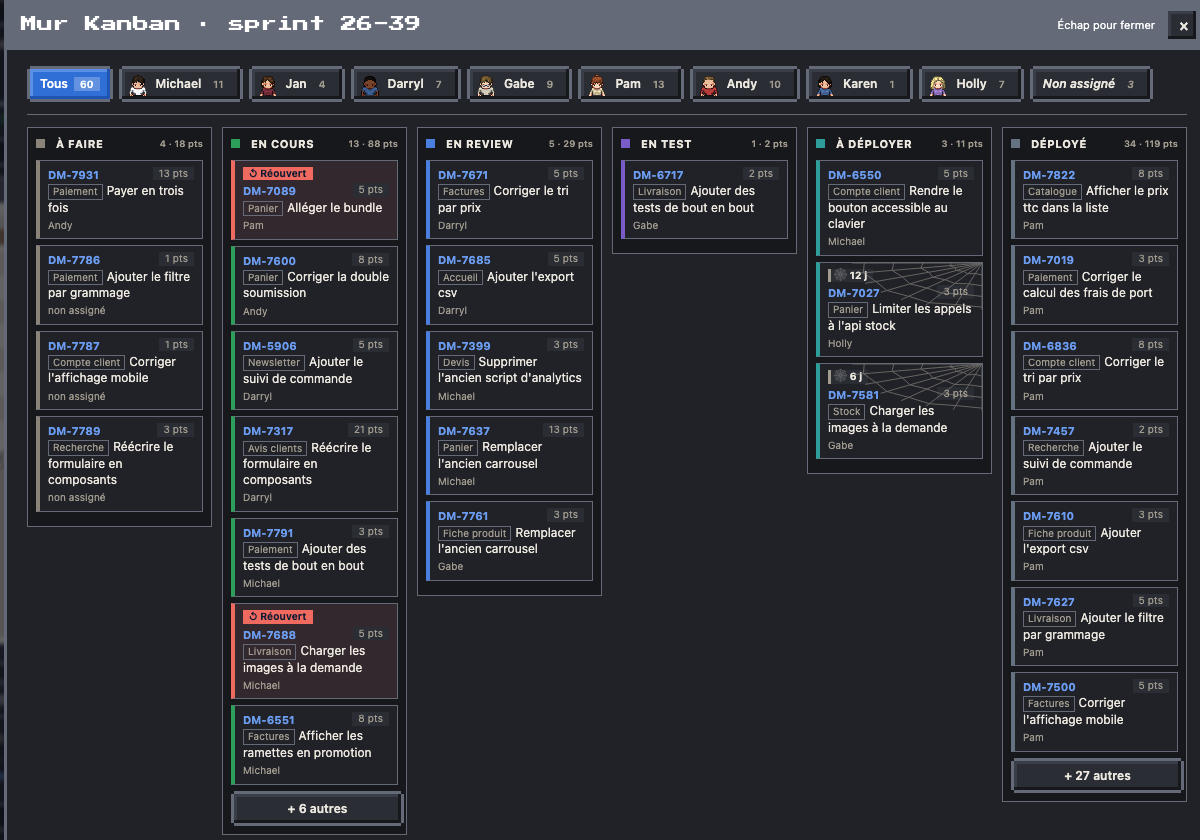
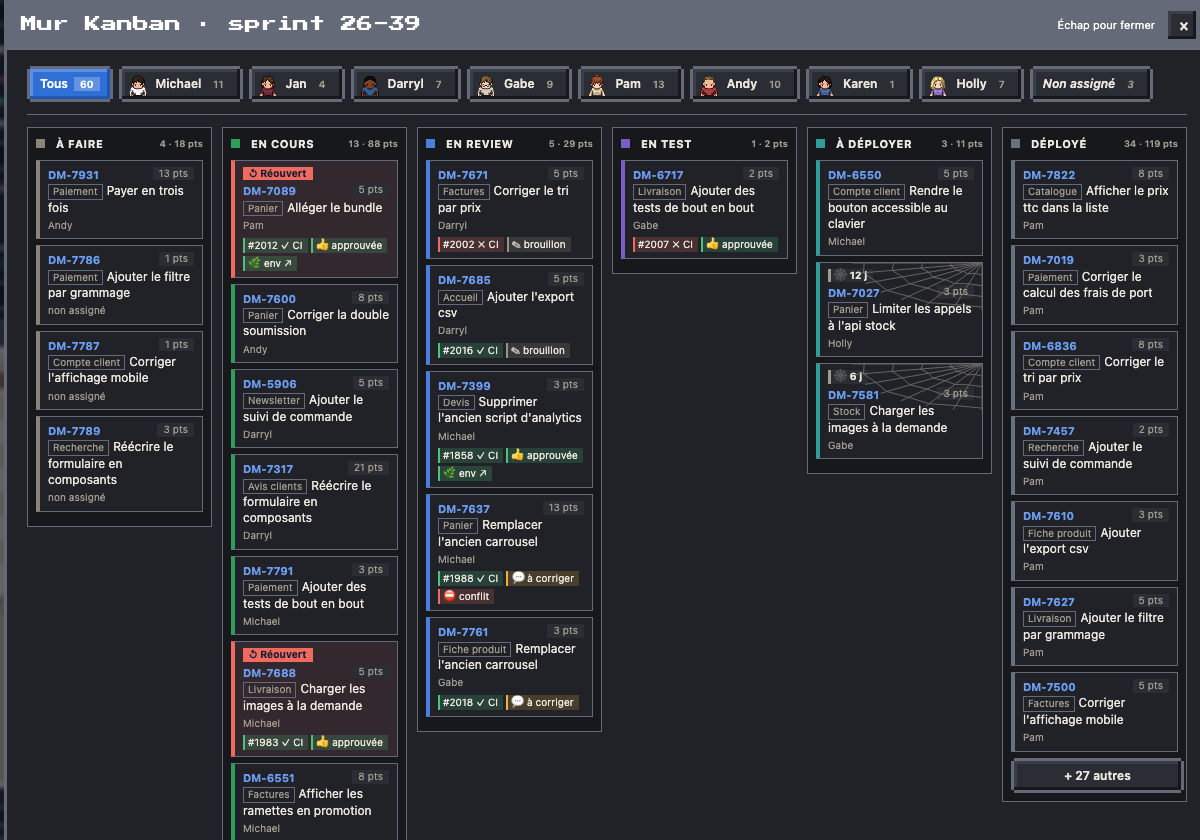
feat(kanban): l'état de la PR sous chaque carte, et le lien de son env de branche
Sous chaque carte avec une PR ouverte (la prête plutôt qu'un brouillon,
puis la plus récente) : son numéro et sa CI (✓, ✗, ⏳), brouillon ou
review (👀 à relire, 💬 à corriger, 👍 approuvée), ⛔ conflit, les envs où
tourne sa branche (🧪 DEV, 🎭 STG, ⏳ pendant le déploiement, dataset
live) et « 🌿 env ↗ », lien direct vers son env de branche. Dans le
volet, sa PR montre CI et envs dans ses marques, et l'adresse complète
de l'env de branche avec l'heure où il a été prêt.

La carte devient un cadre qui contient le lien vers la fiche, puis les
pastilles : le lien de l'env n'est jamais dans un autre lien.

Cron équipe : CI du dernier commit et labels dans la requête GraphQL des
fils (une par dépôt, rien de plus) ; sur une PR qui porte le label d'env,
l'adresse est relevée dans ses commentaires selon le motif du pack
(env.url), par un filtre jq qui ne sort que l'adresse et l'heure (le
commentaire contient souvent des mots de passe). Champs écrits seulement
quand ils sont connus : la sortie reste sous 100 Ko.

Démo : CI, branche et env de branche sur les PR. Poids : +3,4 Ko
(967 563 o publiés avec ma config, 96 %).

Changed region(s): [[0.185, 0.2786, 0.6475, 1.0], [0.0, 0.7738, 0.0308, 0.9286], [0.0, 0.2476, 0.0308, 0.4024]]

diff --git a/page/src/63-kanban.js b/page/src/63-kanban.js
@@ -74,9 +74,10 @@ function kanbanFill(box){
     if(KB_VOL&&k==='done')return `<button type="button" class="kbw-col kbw-strip" title="${esc(TCAT[k].t)} : ${list.length} tickets (fermer le volet pour les voir)"><span class="dot" style="background:${TCAT[k].c}"></span>${esc(TCAT[k].t)} · ${list.length}</button>`;
     return `<section class="kbw-col" aria-label="${esc(TCAT[k].t)}"><h3><span class="dot" style="background:${TCAT[k].c}"></span>${esc(TCAT[k].t)}<small>${list.length}${pts?' · '+Math.round(pts)+' pts':''}</small></h3>`+
       list.slice(0,n).map(x=>{const t=tkComp(x.summary), ro=kbReopened(x), st=kbStale(x,k);
-        return `<a href="#" class="kbw-c${x.key===cur?' kb-on':''}${ro?' kb-ro':''}${st?' kb-stale kb-stale'+st.lvl:''}" data-tk="${esc(x.key)}"${x.key===cur?' aria-current="true"':''} style="--c:${TCAT[k].c}" title="${st?`Dans « ${esc(TCAT[k].t)} » depuis ${st.d} j (seuil ${st.lim} j). `:''}Ouvrir sa fiche et ses actions">`+
+        // la carte : un lien vers la fiche, puis les pastilles de sa PR hors du lien (celle de l'env de branche est un lien)
+        return `<div class="kbw-c${x.key===cur?' kb-on':''}${ro?' kb-ro':''}${st?' kb-stale kb-stale'+st.lvl:''}" style="--c:${TCAT[k].c}"><a href="#" class="kbw-a" data-tk="${esc(x.key)}"${x.key===cur?' aria-current="true"':''} title="${st?`Dans « ${esc(TCAT[k].t)} » depuis ${st.d} j (seuil ${st.lim} j). `:''}Ouvrir sa fiche et ses actions">`+
           (ro?'<span class="kb-rot" title="Réouvert en test : retour en cours">↺ Réouvert</span>':'')+(st?`<span class="kb-age">🕸 ${st.d} j</span>`:'')+`<b>${esc(x.key)}</b>${x.points?`<em>${esc(x.points)} pts</em>`:''}`+
-          `<span class="kbw-t">${t.comp?`<span class="kbw-cp">${esc(t.comp)}</span>`:''}${esc(t.title)}</span><small>${esc(x.owner?String(x.owner).split(' ')[0]:'non assigné')}</small>${st?kbWeb(st.lvl):''}</a>`;}).join('')+
+          `<span class="kbw-t">${t.comp?`<span class="kbw-cp">${esc(t.comp)}</span>`:''}${esc(t.title)}</span><small>${esc(x.owner?String(x.owner).split(' ')[0]:'non assigné')}</small></a>${k==='done'?'':kbPrChips(x.key)}${st?kbWeb(st.lvl):''}</div>`;}).join('')+
       (list.length>n?`<button type="button" class="kbw-more" data-col="${k}">+ ${list.length-n} autre${list.length-n>1?'s':''}</button>`:'')+
       (list.length?'':'<span class="kbw-none">—</span>')+'</section>';
   }).join('')+'</div></div><p class="hint">'+(KB_VOL?'Un autre ticket change le volet ; un lien de PR l\'y ouvre, « ← » revient ; Échap ferme le volet, puis la fenêtre.':
@@ -86,8 +87,21 @@ function kanbanFill(box){
   for(const e of box.querySelectorAll('[data-pt]'))e.appendChild(portrait(byKey[e.dataset.pt],24));
   for(const b of box.querySelectorAll('.kbp-b'))b.onclick=()=>{KB_WHO=b.dataset.who;kanbanFill(box);};
   for(const b of box.querySelectorAll('.kbw-more'))b.onclick=()=>{KB_ALL[b.dataset.col]=true;kanbanFill(box);};
-  for(const a of box.querySelectorAll('.kbw-c'))a.onclick=e=>{e.preventDefault();e.stopPropagation();kbShow({t:'ticket',k:a.dataset.tk},true);}; // pas le lien global (62-ticket.js)
+  for(const a of box.querySelectorAll('.kbw-a'))a.onclick=e=>{e.preventDefault();e.stopPropagation();kbShow({t:'ticket',k:a.dataset.tk},true);}; // pas le lien global (62-ticket.js)
   const st=box.querySelector('.kbw-strip');if(st)st.onclick=kbClose;
+}
+// pastilles de la PR d'un ticket, sous sa carte : la PR prête plutôt qu'un brouillon, la plus récente ; n° et CI, brouillon
+// ou conflit, review, les envs où tourne sa branche (🧪 DEV, 🎭 STG, dataset live) et « 🌿 env ↗ », l'env de branche
+const KB_REV={changes:['💬 à corriger','var(--warn)'],approved:['👍 approuvée','var(--ok)'],pending:['👀 à relire','var(--info)']};
+function kbPrChips(key){
+  const p=prsOf(key).sort((a,b)=>(!!a.draft-!!b.draft)||(b.n-a.n))[0];if(!p)return '';
+  const c=(t,col,tt)=>`<i style="--k:${col}"${tt?` title="${esc(tt)}"`:''}>${t}</i>`, ci=PR_CI[p.ci];
+  let h=c(esc('#'+p.n)+(ci?' '+ci[0]:''),ci?ci[1]:'var(--idle)',ci?ci[2]:'');
+  if(p.draft)h+=c('✎ brouillon','var(--idle)');else if(KB_REV[p.review])h+=c(...KB_REV[p.review]);
+  if(p.conflict)h+=c('⛔ conflit','var(--err)');
+  for(const e of prEnvs(p))h+=c(e.ico+' '+esc(e.env.toUpperCase())+(e.run?' ⏳':''),e.run?'var(--warn)':'var(--info)',(e.run?'Déploiement en cours sur ':'Sa branche est sur ')+e.env.toUpperCase());
+  if(safeUrl(p.env_url))h+=`<a class="kbw-env" ${hrefOf(p.env_url)} target="_blank" rel="noopener" title="Env de branche : ${esc(p.env_url)}">🌿 env ↗</a>`;
+  return `<span class="kbw-x">${h}</span>`;
 }
 // le volet : « ← » (fiche d'avant) ou rien, × ; puis la fiche du ticket ou de la PR (62-ticket.js), comme dans le panneau
 function kbVolet(m){

diff --git a/tests/kanban-pr.test.js b/tests/kanban-pr.test.js
@@ -1,0 +1,54 @@
+// Pastilles de la PR d'un ticket sous sa carte du Mur Kanban (63-kanban.js) et dans sa fiche (62-ticket.js, 60-fiches.js) :
+// CI, review, conflit, envs où tourne sa branche (dataset live) et lien de l'env de branche.
+'use strict';
+const test = require('node:test');
+const assert = require('node:assert/strict');
+const {load} = require('./helpers/page.js');
+
+const page = load();
+const J = code => JSON.parse(page.run('JSON.stringify(' + code + ')'));
+const REPO = J('CFG.github_repo');
+const pr = (o = {}) => ({n: 12, title: 'DM-1 x', keys: ['DM-1'], review: 'pending', head: 'feat/DM-1-x', ...o});
+// pastilles du ticket DM-1, avec ces PR et ces occupants d'env ; le HTML sans balises, et les liens
+function chips(prs, envs = {}) {
+  return J(`(() => { const t0 = TEAM, l0 = LIVE; TEAM = {people: [{name: 'Pam', prs: ${JSON.stringify(prs)}, tickets: []}], other_prs: []};
+    LIVE = {envs: ${JSON.stringify(envs)}};
+    try { const h = kbPrChips('DM-1'); return {text: h.replace(/<[^>]+>/g, ' ').replace(/\\s+/g, ' ').trim(), links: [...h.matchAll(/href="([^"]+)"/g)].map(m => m[1])}; }
+    finally { TEAM = t0; LIVE = l0; } })()`);
+}
+const run = (o = {}) => ({ref: 'feat/DM-1-x', tag: false, status: 'completed', conclusion: 'success', start: '2026-10-01T08:00:00Z', end: '2026-10-01T08:10:00Z', ...o});
+
+test('n° de PR et CI, review ; brouillon à la place de la review ; conflit', () => {
+  assert.equal(chips([pr({ci: 'ok'})]).text, '#12 ✓ CI 👀 à relire');
+  assert.equal(chips([pr({ci: 'ko', review: 'changes', conflict: true})]).text, '#12 ✗ CI 💬 à corriger ⛔ conflit');
+  assert.equal(chips([pr({draft: true, review: 'approved'})]).text, '#12 ✎ brouillon', 'CI inconnue : le numéro seul');
+  assert.equal(chips([]).text, '', 'sans PR : rien');
+});
+
+test('la PR prête plutôt qu\'un brouillon, puis la plus récente', () => {
+  assert.match(chips([pr({n: 30, draft: true}), pr({n: 20}), pr({n: 25})]).text, /^#25 /);
+});
+
+test('envs : la branche déployée (réussi ou en cours), jamais une version ni un échec ; casse du dépôt ignorée', () => {
+  const R = REPO.toUpperCase();
+  assert.match(chips([pr()], {[R + '|dev']: run(), [REPO + '|stg']: run({status: 'in_progress', conclusion: null, end: null})}).text, /🧪 DEV 🎭 STG ⏳$/);
+  assert.doesNotMatch(chips([pr()], {[REPO + '|dev']: run({conclusion: 'failure'})}).text, /DEV/);
+  assert.doesNotMatch(chips([pr()], {[REPO + '|dev']: run({ref: '17.2.0', tag: true})}).text, /DEV/);
+  assert.doesNotMatch(chips([pr()], {[REPO + '|dev']: run({ref: 'feat/DM-2'})}).text, /DEV/);
+});
+
+test('« 🌿 env ↗ » : un lien https vers l\'env de branche, jamais une autre adresse', () => {
+  const u = 'https://www.dm1.preview.example.com';
+  assert.deepEqual(chips([pr({env_url: u})]).links, [u]);
+  assert.deepEqual(chips([pr({env_url: 'javascript:alert(1)'})]).links, []);
+});
+
+test('fiche du ticket : l\'adresse complète de l\'env de branche, sous sa PR ; les envs dans les marques de la PR', () => {
+  const h = J(`prEnvLine({env_url: 'https://www.dm1.preview.example.com', env_at: null})`);
+  assert.match(h, /href="https:\/\/www\.dm1\.preview\.example\.com"/);
+  assert.match(h, />www\.dm1\.preview\.example\.com</);
+  assert.equal(J(`prEnvLine({env_url: null})`), '');
+  const m = J(`(() => { const l0 = LIVE; LIVE = {envs: {'${REPO}|dev': ${JSON.stringify(run())}}}; try { return prMarks(${JSON.stringify(pr({ci: 'ko'}))}).join(' '); } finally { LIVE = l0; } })()`);
+  assert.match(m, /✗ CI/);
+  assert.match(m, /🧪 DEV · depuis/);
+});

diff --git a/page/src/styles.css b/page/src/styles.css
@@ -236,7 +236,15 @@ button.back kbd{font:10px ui-monospace,Menlo,monospace;border:1px solid var(--li
 .kbw-col h3{margin:0 0 8px;font-size:11px;text-transform:uppercase;letter-spacing:.05em;display:flex;gap:6px;align-items:center;color:var(--ink)}
 .kbw-col h3 small{margin-left:auto;color:var(--muted);font-weight:600;letter-spacing:0;text-transform:none}
 .kbw-c{display:block;background:var(--panel);border:1px solid var(--line);border-left:4px solid var(--c);border-radius:8px;padding:6px 8px;margin-bottom:6px;font-size:12px;line-height:1.35;color:var(--ink);text-decoration:none}
-.kbw-c:hover,.kbw-c:focus-visible{border-color:var(--accent);border-left-color:var(--c)}
+.kbw-c:hover,.kbw-c:focus-within{border-color:var(--accent);border-left-color:var(--c)}
+.kbw-a{display:block;color:inherit;text-decoration:none}.kbw-a:focus-visible{outline:none}
+/* pastilles de la PR d'un ticket, sous sa carte (kbPrChips) */
+.kbw-x{display:flex;flex-wrap:wrap;gap:3px;margin-top:5px;position:relative}
+.kbw-x i{font-style:normal;font-size:10px;line-height:15px;padding:0 5px;background:color-mix(in srgb,var(--k) 20%,transparent);box-shadow:inset 2px 0 0 var(--k);color:var(--ink);white-space:nowrap}
+.kbw-env{font-size:10px;line-height:15px;padding:0 5px;background:color-mix(in srgb,var(--ok) 22%,transparent);box-shadow:inset 2px 0 0 var(--ok);color:var(--ink);text-decoration:none;white-space:nowrap}
+.kbw-env:hover{text-decoration:underline}
+.kb-vol .kbw-x{display:none}
+.tk-env{display:flex;flex-wrap:wrap;align-items:baseline;gap:2px 6px;margin-top:4px;font-size:11px}.tk-env a{color:var(--accent);word-break:break-all}.tk-env small{color:var(--muted)}
 .kbw-c b{color:var(--accent);font-size:11px}.kbw-c em{font-style:normal;float:right;background:var(--chip);border-radius:999px;padding:0 6px;font-size:10px;color:var(--muted)}
 .kbw-t{display:block}.kbw-c small{display:block;color:var(--muted);margin-top:3px}
 .kbw-cp{display:inline-block;font-size:10px;color:var(--muted);border:1px solid var(--line);border-radius:4px;padding:0 4px;margin-right:4px}

diff --git a/page/src/62-deploy.js b/page/src/62-deploy.js
@@ -76,3 +76,19 @@ function deployBlock(box,p){
   t.insertAdjacentHTML('beforeend','<div class="dp-safe">🔒 Hors prod seulement : jamais la prod.</div>');
   host.appendChild(t);box.appendChild(host);
 }
+// ---------- état d'une PR partagé par le Kanban, la fiche et les listes : CI et envs où tourne sa branche ----------
+const PR_CI={ok:['✓ CI','var(--ok)','CI verte'],ko:['✗ CI','var(--err)','CI en échec'],run:['⏳ CI','var(--warn)','CI en cours']};
+const DP_ICO={dev:'🧪',stg:'🎭',staging:'🎭'};
+// [{env, ico, run, since}] : les envs (dataset live) dont le dernier déploiement est la branche de la PR, réussi ou en cours
+function prEnvs(p){
+  if(!p||!p.head||!LIVE||!LIVE.envs)return [];
+  const r=String(prRepo(p)).toLowerCase()+'|';
+  return Object.entries(LIVE.envs).filter(([k,o])=>k.toLowerCase().startsWith(r)&&o&&!o.tag&&o.ref===p.head&&(o.status!=='completed'||o.conclusion==='success'))
+    .map(([k,o])=>{const env=k.slice(r.length);return {env,ico:DP_ICO[env]||'🚀',run:o.status!=='completed',since:o.end||o.start};});
+}
+// l'adresse de l'env de branche d'une PR (relevée dans le commentaire du bot par le cron équipe), en entier, cliquable
+function prEnvLine(p){
+  if(!p||!safeUrl(p.env_url))return '';
+  return `<div class="tk-env">🌿 <a ${hrefOf(p.env_url)} target="_blank" rel="noopener">${esc(p.env_url.replace(/^https:\/\//,''))}</a>`+
+    `<small>env de branche${p.env_at?' · prêt '+esc(spWhen(p.env_at)):''}</small></div>`;
+}

diff --git a/page/src/60-fiches.js b/page/src/60-fiches.js
@@ -205,6 +205,8 @@ function prMarks(x){
   if(x.conflict)m.push('<span class="prm err" title="Conflit avec sa base">⛔ conflit</span>');
   if(x.behind>0)m.push(`<span class="prm" title="Commits de ${esc(x.base||'main')} absents de la PR">⟳ ${x.behind} de retard</span>`);
   if(x.threads>0)m.push(`<span class="prm" title="Fils de review non résolus">💬 ${x.threads} fil${x.threads>1?'s':''}</span>`);
+  const ci=PR_CI[x.ci];if(ci)m.push(`<span class="prm${x.ci==='ko'?' err':''}" title="${ci[2]}">${ci[0]}</span>`);
+  for(const e of prEnvs(x))m.push(`<span class="prm" title="${e.run?'Déploiement en cours':'Sa branche y est'}">${e.ico} ${esc(e.env.toUpperCase())}${e.run?' ⏳':' · depuis '+esc(dpAgo(e.since))}</span>`);
   return m;
 }
 function prRowHtml(x){

diff --git a/page/src/62-ticket.js b/page/src/62-ticket.js
@@ -211,7 +211,7 @@ function renderTicket(side,key){
       const li=document.createElement('li');li.className='tkr';
       li.innerHTML=`<div class="tk-top"><span class="dot" style="background:${r[1]}"></span><a class="tk-key" href="#" data-pr="${esc(prId(p))}" title="Fiche de la PR">${esc(prNum(p))}</a>`+
         `<a class="tk-gh" ${hrefOf(p.url)} target="_blank" rel="noopener" title="Ouvrir sur GitHub">↗</a><span class="tk-rev">${r[0]}</span></div>`+
-        `<div class="tk-t">${esc(t)}</div>${m.length?`<div class="tk-meta">${m.join('')}</div>`:''}`;
+        `<div class="tk-t">${esc(t)}</div>${m.length?`<div class="tk-meta">${m.join('')}</div>`:''}`+prEnvLine(p);
       ul.appendChild(li);
     }
     pb.appendChild(ul);

diff --git a/workflows/github_snapshot.py b/workflows/github_snapshot.py
@@ -9,7 +9,12 @@ Releases et déploiements restent ceux du dépôt principal (ses MEP portent tic
 État de fusion de chaque PR ouverte (#74) : `merge` = DIRTY si GitHub la dit en conflit (mergeable, requête des fils), `base`, et `behind` =
 commits de la base absents de la PR (comparaison GitHub), gardé dans ~/.cache/pixel-bureau/behind.json tant que ni la
 PR ni sa base ne bougent : une requête par PR seulement quand l'une des deux change. `threads` (#75) = fils de review non
-résolus de la PR (une requête GraphQL par dépôt), ce que « Corriger » traiterait.
+résolus de la PR (une requête GraphQL par dépôt), ce que « Corriger » traiterait ; la même requête donne `ci` (état des
+vérifications du dernier commit : ok, ko, run, ou None sans vérification) et les labels.
+Env de branche : sur une PR qui porte le label d'env (`env.label`, défaut env-branch) d'un dépôt de `env.repos`, `env_url`
+= la dernière adresse de ses commentaires qui répond à `env.url` (expression régulière, réglage d'équipe ; sans elle, rien)
+et `env_at` = l'heure du commentaire. Le filtre jq ne sort que l'adresse : le reste du commentaire (des mots de passe,
+souvent) ne quitte jamais gh.
 Sortie (stdout) : {"open": [...], "merged": [...], "releases": [...], "staging": [...], "prod": [...], "errors": [...], "warnings": [...]}
 """
 import json, os, subprocess, sys
@@ -134,19 +139,43 @@ def behind_counts(prs):
 
 
 THREADS_Q = ("query($o:String!,$r:String!){repository(owner:$o,name:$r){pullRequests(states:OPEN,first:100,"
-             "orderBy:{field:UPDATED_AT,direction:DESC}){nodes{number mergeable reviewThreads(first:100){nodes{isResolved}}}}}}")
+             "orderBy:{field:UPDATED_AT,direction:DESC}){nodes{number mergeable reviewThreads(first:100){nodes{isResolved}} "
+             "labels(first:20){nodes{name}} commits(last:1){nodes{commit{statusCheckRollup{state}}}}}}}}")
+CI = {"SUCCESS": "ok", "FAILURE": "ko", "ERROR": "ko", "PENDING": "run", "EXPECTED": "run"}
 
 
 def thread_counts(repo):
-    """Fils de review non résolus et état de fusion de chaque PR ouverte du dépôt ({n: (fils, mergeable)}), une requête
-    GraphQL ; {} en cas d'échec (pas de pastilles, les PR restent)."""
+    """Fils de review non résolus, état de fusion, CI et labels de chaque PR ouverte du dépôt ({n: (fils, mergeable, ci,
+    labels)}), une requête GraphQL ; {} en cas d'échec (pas de pastilles, les PR restent)."""
     owner, name = repo.split("/", 1)
     raw = api_text(None, ["api", "graphql", "-f", "query=" + THREADS_Q, "-F", "o=" + owner, "-F", "r=" + name, "--jq",
-                          "[.data.repository.pullRequests.nodes[]|[.number,([.reviewThreads.nodes[]|select(.isResolved|not)]|length),.mergeable]]"])
+                          "[.data.repository.pullRequests.nodes[]|[.number,([.reviewThreads.nodes[]|select(.isResolved|not)]|length),.mergeable,"
+                          "(.commits.nodes[0].commit.statusCheckRollup.state // null),[.labels.nodes[].name]]]"])
     try:
-        return {int(row[0]): (row[1], row[2] if len(row) > 2 else None) for row in json.loads(raw or "[]")}
+        return {int(row[0]): (row[1], row[2] if len(row) > 2 else None, CI.get(row[3]) if len(row) > 3 else None,
+                              row[4] if len(row) > 4 else []) for row in json.loads(raw or "[]")}
     except (ValueError, TypeError, IndexError):
         return {}
+
+
+ENV = CFG.get("env") or {}
+ENV_LABEL = ENV.get("label") or "env-branch"
+ENV_REPOS = {r.lower() for r in (((CFG.get("launch") or {}).get("env") or {}).get("repos") if isinstance((CFG.get("launch") or {}).get("env"), dict) else None)
+             or ENV.get("repos") or [REPO] if r}
+
+
+def env_url(pr):
+    """(adresse, heure) de l'env de branche d'une PR, lue dans ses commentaires (env.url), sinon (None, None)."""
+    pat = ENV.get("url")
+    if not pat or pr["repo"].lower() not in ENV_REPOS or ENV_LABEL not in (pr.get("labels") or []):
+        return None, None
+    jq = f'[.[]|select(.body|test({json.dumps(pat)}))|[.created_at,(.body|capture({json.dumps("(?<u>" + pat + ")")}).u)]]|last'
+    raw = api_text((f"repos/{pr['repo']}/issues/{pr['number']}/comments?per_page=100", jq))
+    try:
+        at, url = json.loads(raw or "null") or (None, None)
+        return (url, at) if isinstance(url, str) and url.startswith("https://") else (None, None)
+    except (ValueError, TypeError):
+        return None, None
 
 
 BEHIND = behind_counts(out["open"])
@@ -154,12 +183,20 @@ with ThreadPoolExecutor(max_workers=8) as pool:
     _repos = sorted({pr["repo"] for pr in out["open"]})
     THREADS = dict(zip(_repos, pool.map(thread_counts, _repos)))
 for pr in out["open"]:
-    t = THREADS.get(pr["repo"], {}).get(pr["number"]) or (None, None)
+    t = THREADS.get(pr["repo"], {}).get(pr["number"]) or (None, None, None, [])
     pr["merge"] = "DIRTY" if t[1] == "CONFLICTING" else None
+    pr["labels"] = t[3]
+    if t[2]:  # seulement s'il est connu : la sortie reste sous 100 Ko
+        pr["ci"] = t[2]
     pr["base"] = pr.pop("baseRefName", None)
     pr.pop("headRefOid", None)
     pr["behind"] = BEHIND.get(f"{pr['repo']}#{pr['number']}")
     pr["threads"] = t[0]
+with ThreadPoolExecutor(max_workers=8) as pool:  # un appel par PR qui porte le label d'env, seulement
+    for pr, (url, at) in zip(out["open"], pool.map(env_url, out["open"])):
+        if url:
+            pr["env_url"], pr["env_at"] = url, at
+        pr.pop("labels", None)
 for w in warnings:
     print("github : " + w, file=sys.stderr)
 # Kronn coupe la sortie d'une étape Exec à 100 Ko (exec_step.rs) : on ne garde que ce que lit team_shape.py

diff --git a/tests/test_scripts.py b/tests/test_scripts.py
@@ -283,7 +283,7 @@ print(json.dumps(val))
                 "changelog": {"histories": [{"created": today, "author": {"accountId": acc, "displayName": name},
                                              "items": [{"field": "status", "fromString": "À faire", "toString": "En cours"}]}] * moves}})
         gh = github if github is not None else {
-            "open": [{"number": 7, "title": "DM-100 corrige le menu", "author": {"login": "dmartin", "name": "Darryl Martin"}, "headRefName": "feat/DM-100-menu",
+            "open": [{"number": 7, "title": "DM-100 corrige le menu", "author": {"login": "dmartin", "name": "Darryl Martin"}, "headRefName": "feat/DM-100-menu", "ci": "ok", "env_url": "https://www.dm100.testing.example.com", "env_at": "2026-10-01T08:00:00Z",
                       "isDraft": False, "reviewDecision": "APPROVED", "url": "https://x/7", "updatedAt": today, "createdAt": today,
                       "latestReviews": [], "reviewRequests": ["michaelscott"]}],
             "merged": [], "releases": [], "staging": [], "prod": [], "errors": []}
@@ -328,6 +328,8 @@ print(json.dumps(val))
         self.assertEqual([t["key"] for t in names["Darryl Martin"]["tickets"]], ["DM-100", "DM-102"])
         self.assertEqual(names["Darryl Martin"]["prs"][0]["req"], ["michaelscott"])
         self.assertEqual(names["Darryl Martin"]["prs"][0]["head"], "feat/DM-100-menu")  # « 🚀 Déployer la branche »
+        pr0 = names["Darryl Martin"]["prs"][0]
+        self.assertEqual((pr0["ci"], pr0["env_url"], pr0["env_at"]), ("ok", "https://www.dm100.testing.example.com", "2026-10-01T08:00:00Z"))
         self.assertEqual(out["unassigned"], [])  # le ticket sans assigné est dans un statut inconnu : ignoré
         self.assertTrue(out["sources"]["jira"] and out["sources"]["github"])
         self.assertNotIn("truncated", out)
@@ -520,6 +522,29 @@ print(json.dumps(val))
         out = self.run_script("github_snapshot.py", github={"repo": "acme/web"})
         self.assertEqual(out["open"][1]["behind"], 4)
         self.assertNotIn("compare", Path(calls).read_text(), "rien n'a bougé : retard relu dans le cache")
+
+    def test_github_snapshot_ci_and_branch_env_url(self):
+        """CI du dernier commit (requête des fils) ; adresse de l'env de branche lue seulement sur une PR qui porte le label
+        d'env, avec un motif réglé (env.url) ; rien sans motif ; champs absents quand ils sont inconnus."""
+        prs = [dict(self.gh_pr(n, f"DM-{n} x"), baseRefName="main", headRefOid=f"h{n}") for n in (16, 17, 18)]
+        api = {"graphql": '[[16, 0, "MERGEABLE", "SUCCESS", ["env-branch"]], [17, 0, "MERGEABLE", "FAILURE", []], [18, 0, "MERGEABLE", null, ["env-branch"]]]',
+               "repos/acme/web/issues/16/comments?per_page=100": '["2026-10-27T09:42:00Z", "https://www.ew16.testing.example.com"]',
+               "repos/acme/web/issues/18/comments?per_page=100": "null"}
+        self.fake_gh({"releases": [], "staging": [], "prod": [], "api": api, "by_repo": {"acme/web": {"open": prs, "merged": []}}})
+        pat = "https://www\\.[a-z0-9-]+\\.testing\\.example\\.com"
+        out = {p["number"]: p for p in self.run_script("github_snapshot.py", github={"repo": "acme/web"}, env={"url": pat})["open"]}
+        self.assertEqual((out[16].get("ci"), out[17].get("ci")), ("ok", "ko"))
+        self.assertNotIn("ci", out[18])
+        self.assertEqual((out[16]["env_url"], out[16]["env_at"]), ("https://www.ew16.testing.example.com", "2026-10-27T09:42:00Z"))
+        self.assertNotIn("env_url", out[18])  # label posé, pas encore d'adresse
+        self.assertNotIn("labels", out[16])
+        calls = Path(os.path.join(self.tmp, "gh.json.calls")).read_text()
+        self.assertNotIn("issues/17/comments", calls)  # sans label : aucun appel
+        self.assertIn("issues/16/comments?per_page=100 --jq [.[]|select(.body|test(", calls)  # filtre jq : seule l'adresse sort de gh
+        Path(os.path.join(self.tmp, "gh.json.calls")).write_text("")
+        out = self.run_script("github_snapshot.py", github={"repo": "acme/web"})
+        self.assertNotIn("comments", Path(os.path.join(self.tmp, "gh.json.calls")).read_text())  # sans motif : rien lu
+        self.assertNotIn("env_url", out["open"][0])
 
     def test_github_snapshot_default_repos_are_main_and_deploys(self):
         self.fake_gh({"open": [], "merged": [], "releases": [], "staging": [], "prod": []})

diff --git a/tools/shots.py b/tools/shots.py
@@ -45,6 +45,11 @@ DP_DEMO = ("ACTIONS.deploy=true;ACTION_BINDS['bureau-deploy']={pr_number:'id',re
            "LIVE.envs={[_r+'|dev']:{ref:'feat/DM-6550-bouton',tag:false,by:_oc&&_oc.github,status:'completed',conclusion:'success',start:_t(2.2),end:_t(2),url:'#'},"
            "[_r+'|stg']:{ref:'17.122.1',tag:true,by:_b&&_b.github,status:'completed',conclusion:'success',start:_t(3.2),end:_t(3),url:'#'}};"
            "openTicket(KB_K);")
+# la branche d'une PR de démo déployée sur DEV (dataset live), une autre en cours de déploiement sur STG
+KB_PR_ENV = ("const _pe=TEAM.people.flatMap(p=>p.prs||[]),_p1=_pe.find(x=>x.n===2012),_p2=_pe.find(x=>x.n===1858),_r=prRepo(_p1),"
+             "_tt=h=>new Date(T-h*36e5).toISOString();LIVE=LIVE||{runs:[],discussions:[],deploys:{}};"
+             "LIVE.envs={[_r+'|dev']:{ref:_p1.head,tag:false,by:null,status:'completed',conclusion:'success',start:_tt(2.2),end:_tt(2),url:'#'},"
+             "[_r+'|stg']:{ref:_p2.head,tag:false,by:null,status:'in_progress',conclusion:null,start:_tt(.1),end:null,url:'#'}};")
 SHOTS = {
     "plan": (1400, 1000, AT(11), "#cv", 1.5),
     # agents mis en avant (« Sur le plan » : agents) : icône, prénom et métier de chacun
@@ -188,6 +193,10 @@ SHOTS = {
     "kanban-traine": (1600, 1000, AT(11) + "TEAM.people.flatMap(p=>p.tickets).filter(t=>t.key==='DM-6551').forEach(t=>{t.since=new Date(T-181*864e5).toISOString();});select('kanban');", ".bp-wide"),
     "kanban-reouvert": (1600, 1000, AT(11) + KB_DEMO + "TEAM.people.flatMap(p=>p.tickets).filter(x=>x.cat==='doing')[1].status=FLOW.reopened;openKanban();", ".bp-wide"),
     # le Kanban filtré sur une personne (barre de portraits en haut)
+    # pastilles de la PR sous chaque carte : CI, review, conflit, 🧪 DEV (branche déployée, dataset live), « 🌿 env ↗ » ; puis
+    # le volet du ticket : sa PR avec ces mêmes infos et l'adresse complète de l'env de branche
+    "kanban-pr-env": (1600, 1000, AT(11) + KB_PR_ENV + "select('kanban');", ".bp-wide"),
+    "kanban-volet-env": (1600, 1000, AT(11) + KB_DEMO + KB_PR_ENV + "openTicket('DM-7089');", ".kbv"),
     "kanban-personne": (1600, 1000, AT(11) + "select('kanban');KB_WHO=kbPeople()[0].key;kanbanFill(document.querySelector('.bp-wbody'));", ".bp-wide"),
     # fiche d'un ticket : ses PR et les workflows à lancer (dataset actions simulé depuis l'équipe de démo)
     "fiche-ticket": (1400, 1400, AT(11) + "ACTIONS.estimate=true;ACTION_BINDS['bureau-estimate']={jira_ticket_key:'key'};const all=TEAM.people.flatMap(p=>p.tickets),prs=TEAM.people.flatMap(p=>p.prs);"

diff --git a/workflows/team_shape.py b/workflows/team_shape.py
@@ -102,7 +102,9 @@ for pr in D.get("open") or []:
            "req": [x for x in pr.get("reviewRequests") or [] if isinstance(x, str)],
            # #74 : en conflit avec sa base (DIRTY), commits de retard (None : inconnu), branche de base
            "conflict": pr.get("merge") == "DIRTY", "behind": pr.get("behind"), "base": pr.get("base"),
-           "threads": pr.get("threads")}  # #75 : fils de review non résolus (None : inconnu)
+           "threads": pr.get("threads"),  # #75 : fils de review non résolus (None : inconnu)
+           # CI du dernier commit, adresse de l'env de branche et son heure : seulement quand ils sont connus
+           **{k: pr[k] for k in ("ci", "env_url", "env_at") if pr.get(k)}}
     p = owner(a, pr["title"])
     if p:
         p["prs"].append(row)

diff --git a/guide/equipe.md b/guide/equipe.md
@@ -84,7 +84,7 @@ La première ligne donne son nom au bouton 🎨 ; remplace partout `data-skin="c
 ## 6. Le reste, facultatif
 
 - `defaults.json` : le titre de la page, ton Jira et ton dépôt GitHub, proposés à l'installation (recopiés dans la config de chacun).
-- `settings.json` : les réglages de toute l'équipe, lus à chaque publication de la page et des crons, sans rien recopier : le rythme (fuseau, heures de bureau, heure et durée du daily, gel des mises en prod, week-end), les cartes GitFut, les affiches du Top 3, le planning des absences (site et classeur SharePoint) et les **personnages des agents** (clé, nom, métier, place, sprite). Pas d'id Kronn dedans : chacun rattache les personnages à ses propres workflows à l'installation (`python3 tools/install.py --rattacher` pour le refaire), et sa config peut surcharger n'importe quel réglage (un autre daily, par exemple). Un personnage peut incarner un modèle du Bureau (`"model": "review_one"`, ou une liste) : il est alors rattaché d'office au workflow que l'installateur a créé. La revue de PR par un agent lit aussi dans `settings.json` la clé `review` : `guidelines` (consignes de l'équipe ajoutées à la grille du Bureau, par exemple vos conventions ou la posture pour les débutants), `skill_ids` (skills Kronn de l'équipe), `repos` (dépôts relus par le cron, sinon les PR suivies) et `schedule` (heures UTC du cron). Le bouton « 🌿 Générer l'env de branche » des fiches lit la clé `env` : `label` (le label GitHub qui construit l'environnement d'une PR, `env-branch` par défaut) et `repos` (les dépôts concernés) ; avec elle, l'installateur propose d'office le modèle qui le fait marcher, et chacun a le bouton sans rien régler. Le bouton « 🚀 Déployer la branche » lit la clé `deploy` : `repos`, chaque dépôt avec son workflow hors prod (`workflow`, sinon son `staging_workflow`) et ses envs (`envs` : les inputs envoyés au workflow pour chacun, par exemple `{"dev": {"envchoice": "dev", "versiontags": ""}}`) ; jamais la prod.
+- `settings.json` : les réglages de toute l'équipe, lus à chaque publication de la page et des crons, sans rien recopier : le rythme (fuseau, heures de bureau, heure et durée du daily, gel des mises en prod, week-end), les cartes GitFut, les affiches du Top 3, le planning des absences (site et classeur SharePoint) et les **personnages des agents** (clé, nom, métier, place, sprite). Pas d'id Kronn dedans : chacun rattache les personnages à ses propres workflows à l'installation (`python3 tools/install.py --rattacher` pour le refaire), et sa config peut surcharger n'importe quel réglage (un autre daily, par exemple). Un personnage peut incarner un modèle du Bureau (`"model": "review_one"`, ou une liste) : il est alors rattaché d'office au workflow que l'installateur a créé. La revue de PR par un agent lit aussi dans `settings.json` la clé `review` : `guidelines` (consignes de l'équipe ajoutées à la grille du Bureau, par exemple vos conventions ou la posture pour les débutants), `skill_ids` (skills Kronn de l'équipe), `repos` (dépôts relus par le cron, sinon les PR suivies) et `schedule` (heures UTC du cron). Le bouton « 🌿 Générer l'env de branche » des fiches lit la clé `env` : `label` (le label GitHub qui construit l'environnement d'une PR, `env-branch` par défaut), `repos` (les dépôts concernés) et `url` (le motif de l'adresse de l'env que la CI poste en commentaire de la PR : le Kanban en fait un lien) ; avec elle, l'installateur propose d'office le modèle qui le fait marcher, et chacun a le bouton sans rien régler. Le bouton « 🚀 Déployer la branche » lit la clé `deploy` : `repos`, chaque dépôt avec son workflow hors prod (`workflow`, sinon son `staging_workflow`) et ses envs (`envs` : les inputs envoyés au workflow pour chacun, par exemple `{"dev": {"envchoice": "dev", "versiontags": ""}}`) ; jamais la prod.
 - `music/music.json` : le morceau de chacun, sur sa fiche (« Sa musique »).
 - Les passions de chacun (`passion` dans le roster) : [Les passions de l'équipe](fonctionnalites/01-plan.md#les-passions-de-léquipe).
 

diff --git a/docs/conventions/pack-equipe.md b/docs/conventions/pack-equipe.md
@@ -19,7 +19,7 @@ Un pack introuvable (pas de `team.json`) est une erreur, jamais une page sans so
 | `team.json` | `name`, `layout` (chemin relatif au pack, sinon au dépôt), `github_org` (seuls ses membres actifs peuvent l'installer) | oui |
 | `roster.json` | `people` (clé, nom, rôle, `person` = nom exact dans Jira, `github`, `roleKind`, place…) et `guests` | non |
 | `defaults.json` | réglages proposés à l'installation (`page_title`, `rhythm`, `ui.skin`, `jira`, `github`, `mail.messengers` : règles de porteurs du courrier, reprises par l'installateur si l'installation n'en a pas) | non |
-| `settings.json` | réglages d'équipe lus à chaque assemblage et rendu des modèles (#32) : `rhythm`, `gitfut`, `wiki_posters`, `microsoft.planning`, `agents` (personnages : `key`, `name`, `role`, `seat`, `sprite`…, sans `wf` ; `model` = clé ou liste de clés de `models`, #78 : rattaché d'office à ces modèles installés ; `holo` = `leger`, `rouge` ou `alerte`, #62), `review` (#78 : `guidelines`, `skill_ids`, `repos`, `schedule`, posés sous `review` de la config qui garde `page_id` et `project_id`), `support` (#62 : `name`, `team`, `channel` du canal de la console Support, fusionné clé à clé avec la config), `env` (env de branche d'une PR : `label`, défaut `env-branch`, et `repos`, dépôts du bouton ; lu par le modèle `env` et `assemble.env_repos`, fusionné clé à clé avec la config), `deploy` (déployer la branche d'une PR hors prod : `repos` = {dépôt: {`workflow` facultatif, sinon son `staging_workflow` ; `envs` = {env: inputs du workflow_dispatch}}} ; lu par le modèle `deploy` (`workflows/deploy.py`), `assemble.deploy_envs`, `actions_snapshot` et `live_snapshot`, fusionné clé à clé avec la config). Posés SOUS la config (`assemble.merged`) : la config surcharge clé à clé (rythme, planning) ou en entier (GitFut, affiches) ; un agent n'apparaît que si la config le rattache (`agents[] = {key, wf}`). `microsoft.config_id` et `agents[].wf` y sont ignorés | non |
+| `settings.json` | réglages d'équipe lus à chaque assemblage et rendu des modèles (#32) : `rhythm`, `gitfut`, `wiki_posters`, `microsoft.planning`, `agents` (personnages : `key`, `name`, `role`, `seat`, `sprite`…, sans `wf` ; `model` = clé ou liste de clés de `models`, #78 : rattaché d'office à ces modèles installés ; `holo` = `leger`, `rouge` ou `alerte`, #62), `review` (#78 : `guidelines`, `skill_ids`, `repos`, `schedule`, posés sous `review` de la config qui garde `page_id` et `project_id`), `support` (#62 : `name`, `team`, `channel` du canal de la console Support, fusionné clé à clé avec la config), `env` (env de branche d'une PR : `label`, défaut `env-branch`, `repos`, dépôts du bouton, et `url`, motif (regex) de l'adresse de l'env dans les commentaires de la PR, relevée par `github_snapshot` ; lu par le modèle `env` et `assemble.env_repos`, fusionné clé à clé avec la config), `deploy` (déployer la branche d'une PR hors prod : `repos` = {dépôt: {`workflow` facultatif, sinon son `staging_workflow` ; `envs` = {env: inputs du workflow_dispatch}}} ; lu par le modèle `deploy` (`workflows/deploy.py`), `assemble.deploy_envs`, `actions_snapshot` et `live_snapshot`, fusionné clé à clé avec la config). Posés SOUS la config (`assemble.merged`) : la config surcharge clé à clé (rythme, planning) ou en entier (GitFut, affiches) ; un agent n'apparaît que si la config le rattache (`agents[] = {key, wf}`). `microsoft.config_id` et `agents[].wf` y sont ignorés | non |
 | `cast.json` | recettes d'avatar LPC par clé de personne (composées dans le navigateur) | non |
 | `sprites/` et `sprites.json` | planches fournies telles quelles ; `sprites.json` se fabrique par `python3 sprites/build_sprites.py <pack>`, qui avertit d'une marche de côté figée (`frozen_side_walk`) | non |
 | `music/music.json` | morceau de chaque personne (carte « Sa musique »), pochette en data URI à côté | non |
